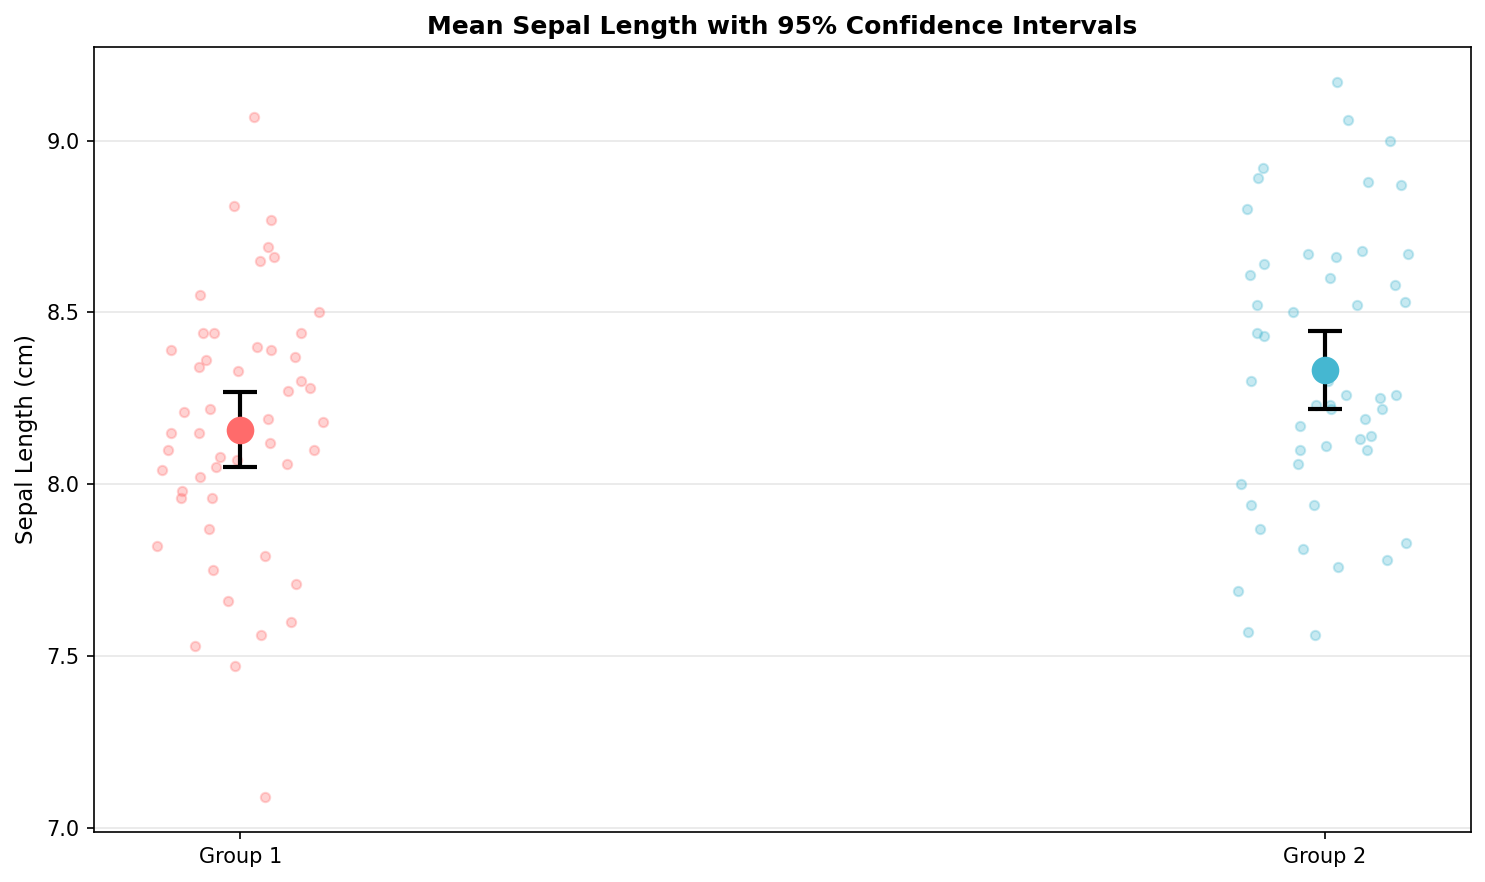
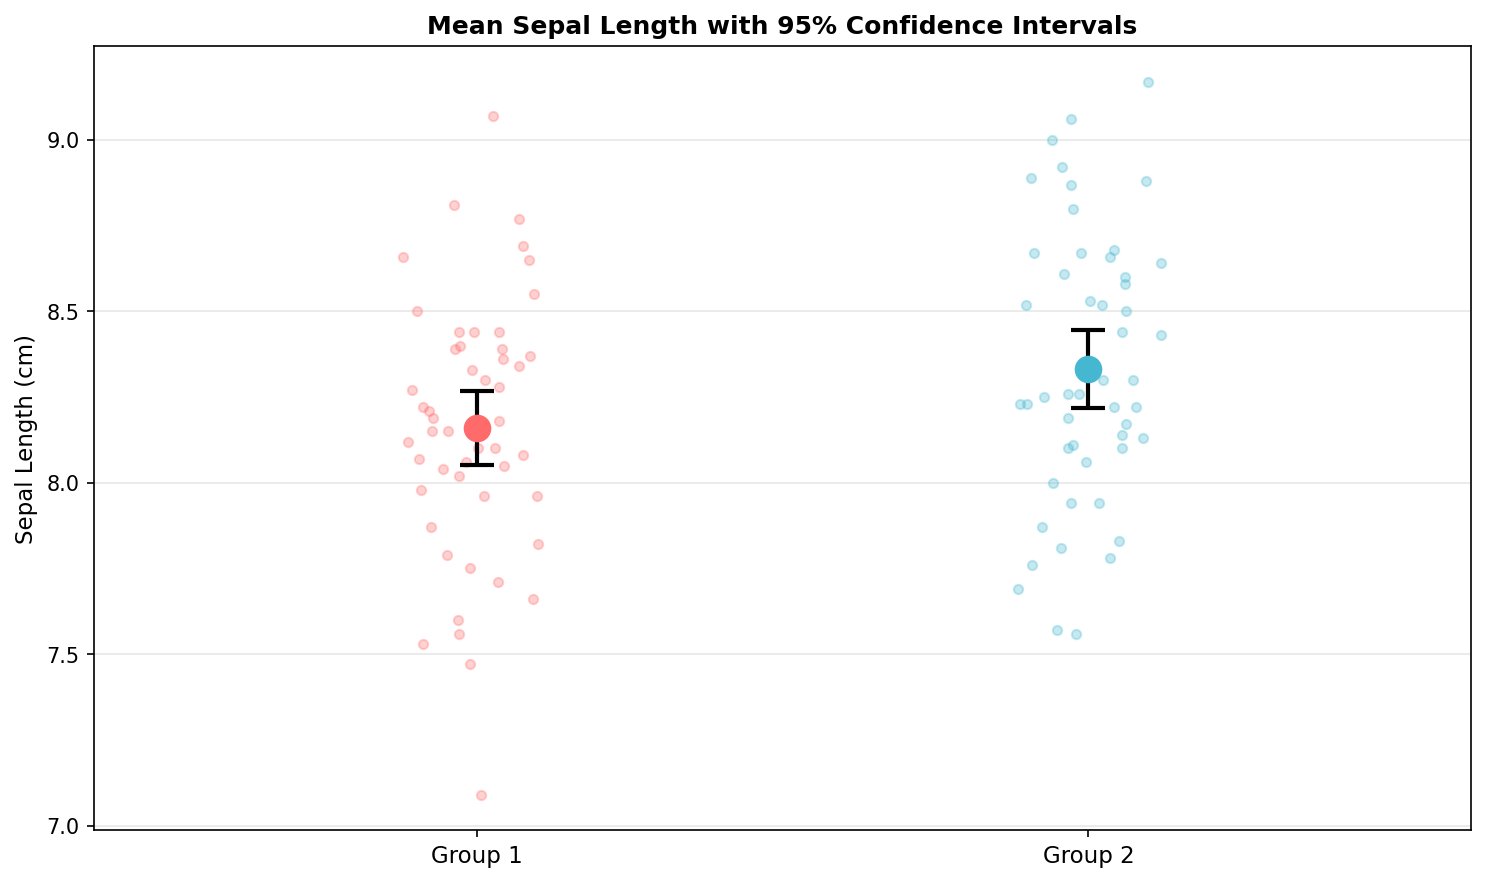
2-way ind t-test update

diff --git a/2-sample-independent-t-test/2Sample_Independent_T-Test_Pt3.py b/2-sample-independent-t-test/2Sample_Independent_T-Test_Pt3.py
@@ -5,6 +5,7 @@ from scipy import stats
 import matplotlib.pyplot as plt
 import seaborn as sns
 import pandas as pd
+import random
 
 # Set Dataframe printing options
 desired_width = 320                                                 # shows columns with X or fewer characters
@@ -203,10 +204,54 @@ plt.tight_layout()
 plt.savefig('2s_ttest_violin.png', dpi=150, bbox_inches='tight')
 plt.show()
 
+# # Plot 4: Mean Comparison with 95% Confidence Interval Error Bars
+# plt.figure(figsize=(10, 6))
+#
+# # Calculate CIs for each group individually
+# from scipy.stats import t as t_dist
+#
+# def mean_ci(data, confidence=0.95):
+#     n = len(data)
+#     se = data.std() / np.sqrt(n)
+#     df_ci = n - 1
+#     h = t_dist.ppf((1 + confidence) / 2, df_ci) * se
+#     return data.mean(), h  # returns (mean, half-width)
+#
+# mean1, ci1 = mean_ci(ensata_1)
+# mean2, ci2 = mean_ci(ensata_2)
+#
+# groups = ['Group 1', 'Group 2']
+# means = [mean1, mean2]
+# errors = [ci1, ci2]
+# colors = ['#FF6B6B', '#45B7D1']
+#
+# plt.errorbar(groups, means, yerr=errors, fmt='o', capsize=8, capthick=2,
+#              markersize=10, linewidth=2, color='black', zorder=5)
+#
+# for i, (grp, mean, color) in enumerate(zip(groups, means, colors)):
+#     plt.scatter([grp], [mean], color=color, s=150, zorder=6)
+#
+# # Add individual data points (strip plot)
+# import random
+# for i, (data, grp, color) in enumerate(zip([ensata_1, ensata_2], groups, colors)):
+#     x_jitter = [i + random.uniform(-0.08, 0.08) for _ in data]
+#     plt.scatter(x_jitter, data, color=color, alpha=0.3, s=20, zorder=3)
+#
+# plt.ylabel('Sepal Length (cm)', fontsize=11)
+# plt.title('Mean Sepal Length with 95% Confidence Intervals', fontsize=12, fontweight='bold')
+# plt.grid(axis='y', alpha=0.3)
+# plt.tight_layout()
+# plt.savefig('2s_ttest_mean_ci.png', dpi=150, bbox_inches='tight')
+#
+# plt.show()
+
+
+
+
+
 # Plot 4: Mean Comparison with 95% Confidence Interval Error Bars
 plt.figure(figsize=(10, 6))
 
-# Calculate CIs for each group individually
 from scipy.stats import t as t_dist
 
 def mean_ci(data, confidence=0.95):
@@ -214,34 +259,36 @@ def mean_ci(data, confidence=0.95):
     se = data.std() / np.sqrt(n)
     df_ci = n - 1
     h = t_dist.ppf((1 + confidence) / 2, df_ci) * se
-    return data.mean(), h  # returns (mean, half-width)
+    return data.mean(), h
 
 mean1, ci1 = mean_ci(ensata_1)
 mean2, ci2 = mean_ci(ensata_2)
 
+# Use numeric x-positions to control the gap between groups
+x_positions = [0, 0.4]                          # <-- controls the gap; was implicitly [0, 1]
 groups = ['Group 1', 'Group 2']
 means = [mean1, mean2]
 errors = [ci1, ci2]
 colors = ['#FF6B6B', '#45B7D1']
 
-plt.errorbar(groups, means, yerr=errors, fmt='o', capsize=8, capthick=2,
-             markersize=10, linewidth=2, color='black', zorder=5)
+plt.errorbar(x_positions, means, yerr=errors, fmt='none', capsize=8, capthick=2,
+             linewidth=2, color='black', zorder=5)
 
-for i, (grp, mean, color) in enumerate(zip(groups, means, colors)):
-    plt.scatter([grp], [mean], color=color, s=150, zorder=6)
+for x, mean, color in zip(x_positions, means, colors):
+    plt.scatter([x], [mean], color=color, s=150, zorder=6)
 
-# Add individual data points (strip plot)
-import random
-for i, (data, grp, color) in enumerate(zip([ensata_1, ensata_2], groups, colors)):
-    x_jitter = [i + random.uniform(-0.08, 0.08) for _ in data]
+# Jitter loop — base position must match x_positions, not i
+for x_base, data, color in zip(x_positions, [ensata_1, ensata_2], colors):
+    x_jitter = [x_base + random.uniform(-0.05, 0.05) for _ in data]
     plt.scatter(x_jitter, data, color=color, alpha=0.3, s=20, zorder=3)
 
+plt.xticks(x_positions, groups, fontsize=11)     # map numeric positions back to labels
+plt.xlim(-0.25, 0.65)                            # tighten the margins around the two points
 plt.ylabel('Sepal Length (cm)', fontsize=11)
 plt.title('Mean Sepal Length with 95% Confidence Intervals', fontsize=12, fontweight='bold')
 plt.grid(axis='y', alpha=0.3)
 plt.tight_layout()
 plt.savefig('2s_ttest_mean_ci.png', dpi=150, bbox_inches='tight')
-
 plt.show()
 
 #========================================